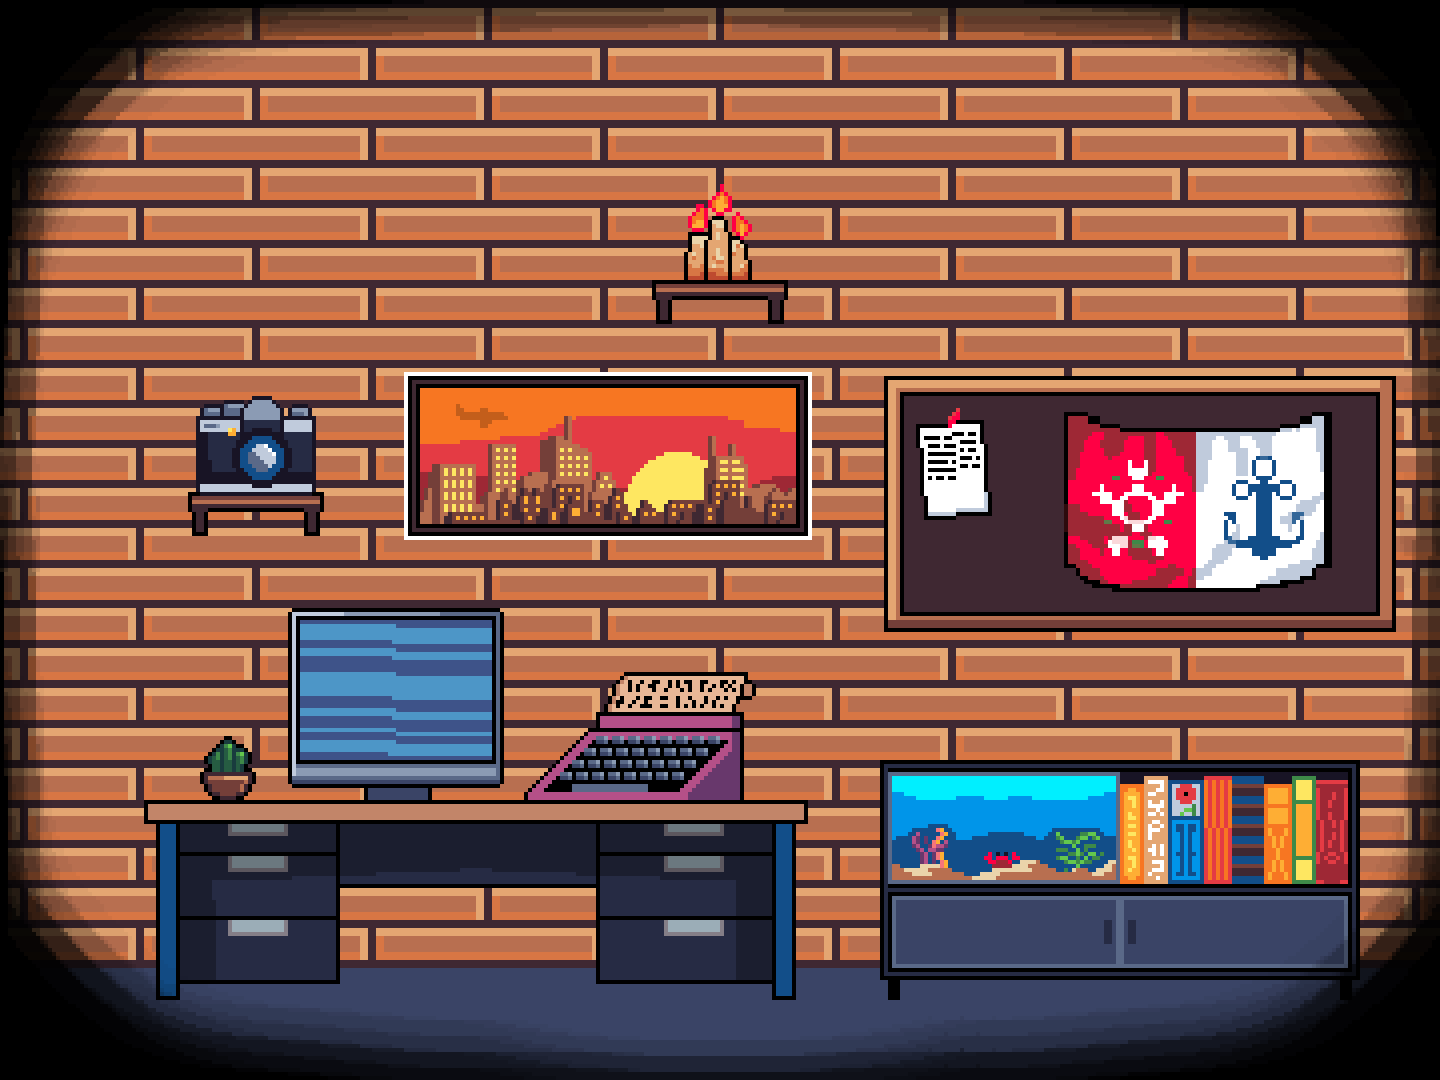
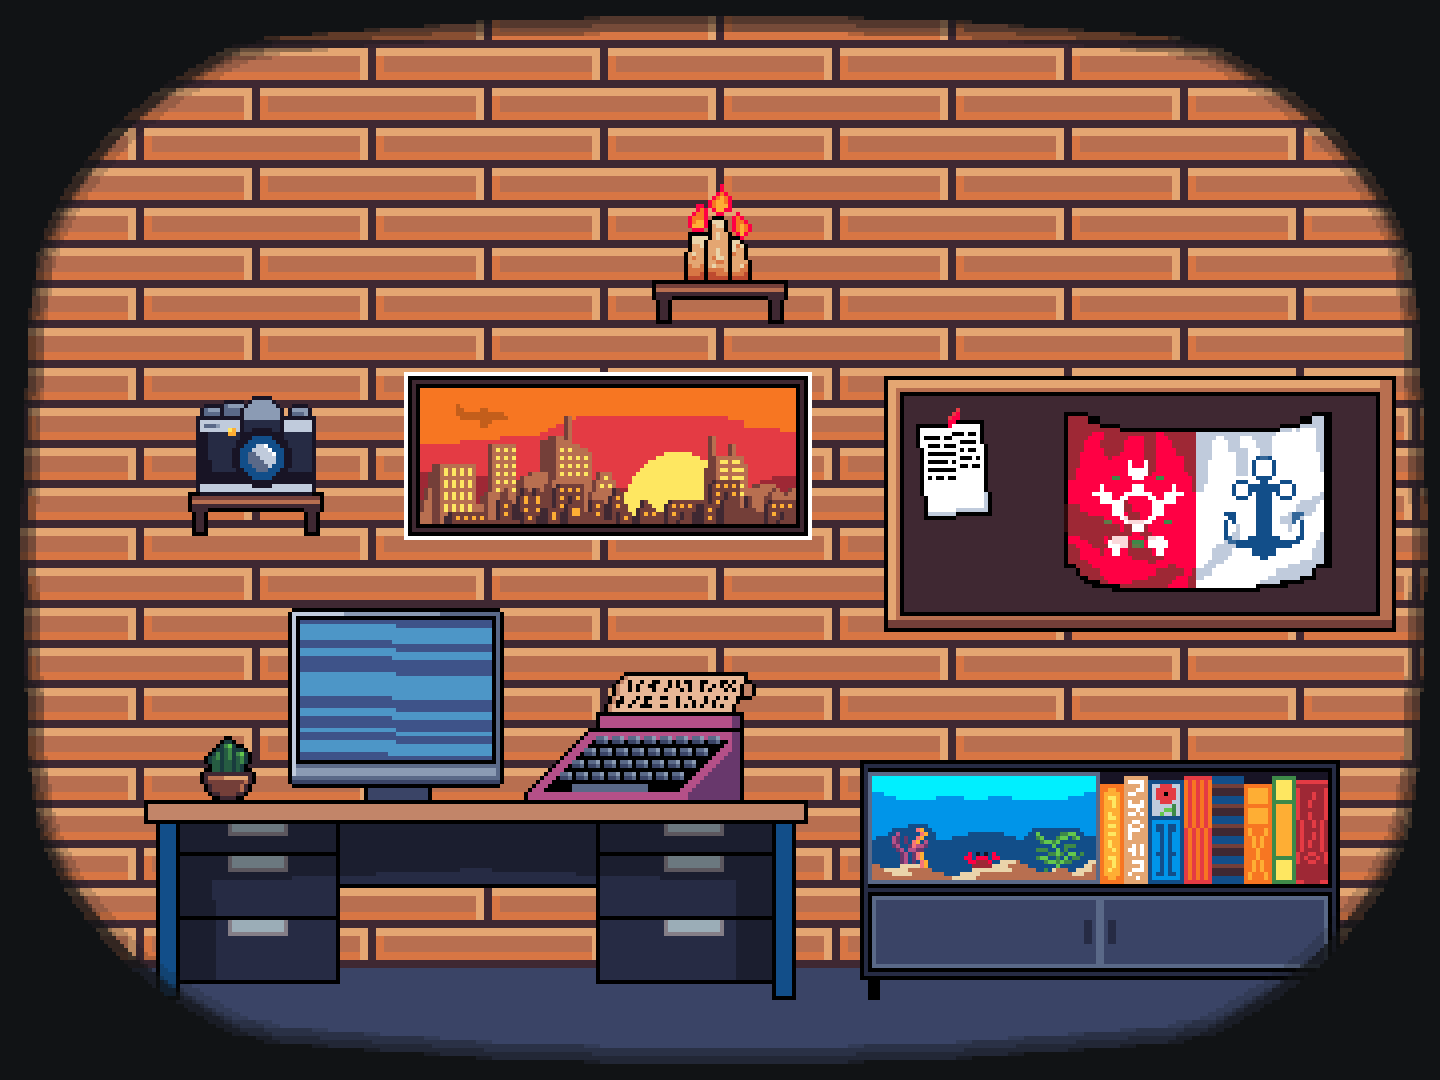
updated colour scheme

Changed region(s): [[0.0, 0.0, 1.0, 0.9778], [0.375, 0.9778, 0.625, 1.0], [0.6562, 0.9472, 0.6875, 0.9778]]

diff --git a/public/index.html b/public/index.html
@@ -4,8 +4,8 @@
     <meta charset="UTF-8">
     <meta name="viewport" content="width=device-width, initial-scale=1.0">
     <title>Alex Gulliver</title>
+    <link rel="stylesheet" href="/styles/main.css">
     <link rel="stylesheet" href="styles/style.css">
-    <link rel="stylesheet" href="styles/font.css">
     <link rel="icon" href="assets/favicon.png">
     <link rel="preconnect" href="https://fonts.googleapis.com">
     <link rel="preconnect" href="https://fonts.gstatic.com" crossorigin>
@@ -18,7 +18,7 @@
             <li><a href="blog">BLOG</a></li>
             <li><a href="cityspots">CITY SPOTS</a></li>
             <li><a href="about">ABOUT</a></li>
-          </ul> 
+        </ul> 
     </div>
     <div id="container">
         <img src="assets/background.gif" id="image" usemap="#pixelmap">

diff --git a/src/index.html b/src/index.html
@@ -4,8 +4,8 @@
     <meta charset="UTF-8">
     <meta name="viewport" content="width=device-width, initial-scale=1.0">
     <title>Alex Gulliver</title>
+    <link rel="stylesheet" href="/styles/main.css">
     <link rel="stylesheet" href="styles/style.css">
-    <link rel="stylesheet" href="styles/font.css">
     <link rel="icon" href="assets/favicon.png">
     <link rel="preconnect" href="https://fonts.googleapis.com">
     <link rel="preconnect" href="https://fonts.gstatic.com" crossorigin>
@@ -18,7 +18,7 @@
             <li><a href="blog">BLOG</a></li>
             <li><a href="cityspots">CITY SPOTS</a></li>
             <li><a href="about">ABOUT</a></li>
-          </ul> 
+        </ul> 
     </div>
     <div id="container">
         <img src="assets/background.gif" id="image" usemap="#pixelmap">

diff --git a/public/styles/style.css b/public/styles/style.css
@@ -1,5 +1,5 @@
 body {
-    background-color: black;
+    background-color: var(--background);
     margin: 0;
     padding: 0;
     justify-content: center; /* Center content horizontally */
@@ -16,7 +16,7 @@ body {
 
 #navbar {
     margin: auto;
-    background-color: rgb(0, 0, 0);
+    background-color: var(--background);
     height: 1em;
     font-size: 2.5em;
     text-decoration: none;
@@ -49,7 +49,6 @@ a:hover {
     justify-content: center;
     margin: auto;
     max-width: 1100px; /* Maximum width of the container */
-    background-color: rgba(255, 255, 255, 0);
     position: relative; /* Establishes positioning context for children */
 }
 

diff --git a/src/styles/style.css b/src/styles/style.css
@@ -1,5 +1,5 @@
 body {
-    background-color: black;
+    background-color: var(--background);
     margin: 0;
     padding: 0;
     justify-content: center; /* Center content horizontally */
@@ -16,7 +16,7 @@ body {
 
 #navbar {
     margin: auto;
-    background-color: rgb(0, 0, 0);
+    background-color: var(--background);
     height: 1em;
     font-size: 2.5em;
     text-decoration: none;
@@ -49,7 +49,6 @@ a:hover {
     justify-content: center;
     margin: auto;
     max-width: 1100px; /* Maximum width of the container */
-    background-color: rgba(255, 255, 255, 0);
     position: relative; /* Establishes positioning context for children */
 }
 

diff --git a/public/styles/blog.css b/public/styles/blog.css
@@ -4,15 +4,8 @@
             box-sizing: border-box;
   } 
 
-:root {
-    --primary: rgb(190, 204, 215);
-    --secondary: rgb(17, 19, 21);
-    --accent: rgb(231, 231, 231);
-    --background:rgb(190, 204, 215); 
-}
-
 body {
-    background-color: var(--secondary)
+    background-color: rgb(17, 19, 21);
 }
 
 #titlebox {

diff --git a/src/styles/blog.css b/src/styles/blog.css
@@ -4,15 +4,8 @@
             box-sizing: border-box;
   } 
 
-:root {
-    --primary: rgb(190, 204, 215);
-    --secondary: rgb(17, 19, 21);
-    --accent: rgb(231, 231, 231);
-    --background:rgb(190, 204, 215); 
-}
-
 body {
-    background-color: var(--secondary)
+    background-color: rgb(17, 19, 21);
 }
 
 #titlebox {

diff --git a/public/blog/index.html b/public/blog/index.html
@@ -4,6 +4,7 @@
     <meta charset="UTF-8">
     <meta name="viewport" content="width=device-width, initial-scale=1.0">
     <title>Blog</title>
+    <link rel="stylesheet" href="/styles/main.css">
     <link rel="stylesheet" href="/styles/blog.css">
 </head>
 <body>

diff --git a/src/blog.html b/src/blog.html
@@ -4,6 +4,7 @@
     <meta charset="UTF-8">
     <meta name="viewport" content="width=device-width, initial-scale=1.0">
     <title>Blog</title>
+    <link rel="stylesheet" href="/styles/main.css">
     <link rel="stylesheet" href="/styles/blog.css">
 </head>
 <body>

diff --git a/public/styles/main.css b/public/styles/main.css
@@ -1,0 +1,6 @@
+:root {
+    --primary: rgb(190, 204, 215);
+    --secondary: rgb(38, 42, 47);
+    --accent: rgb(231, 231, 231);
+    --background:rgb(17, 19, 21);
+}

diff --git a/src/styles/main.css b/src/styles/main.css
@@ -1,0 +1,6 @@
+:root {
+    --primary: rgb(190, 204, 215);
+    --secondary: rgb(38, 42, 47);
+    --accent: rgb(231, 231, 231);
+    --background:rgb(17, 19, 21);
+}
